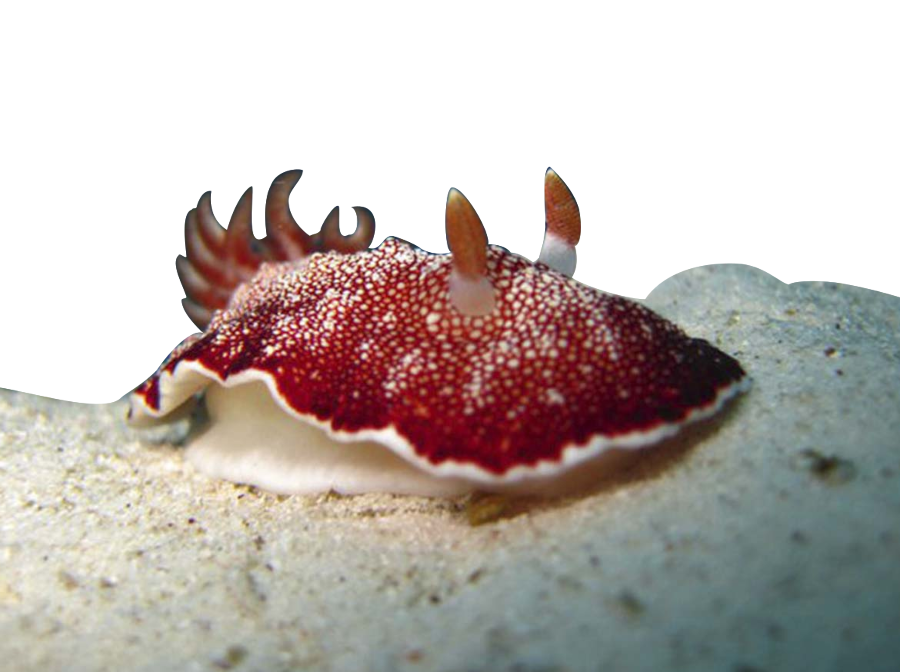
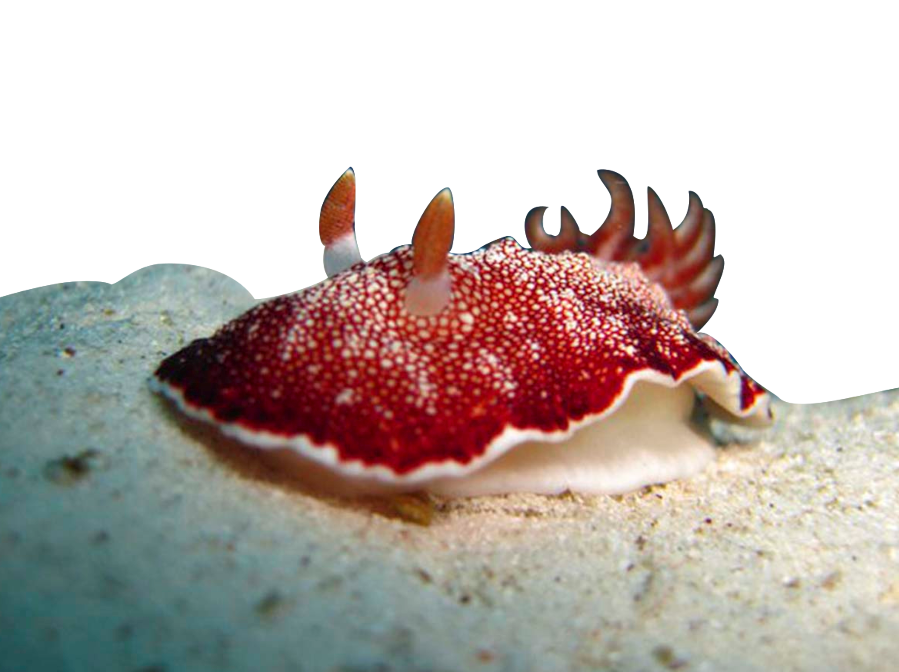
created a better theme selector

diff --git a/index.html b/index.html
@@ -41,6 +41,13 @@
         background: #ffffff99;
         display: flex;
         justify-content: space-between;
+        align-items: center;
+    }
+    .themeSection{
+        display:flex;
+        place-items: center;
+        place-content: center;
+        gap: 1rem;
     }
     menu > div{
         flex-grow: 1;
@@ -75,49 +82,101 @@
     }
     /* Custom Theme Colours */
     .theme1{
-        --lightCol:#011f2b;
-        --lightHighlight:#04fbe7;
-        --darkCol:#04fbe7;
-        --darkHighlight:#f48840;
+        --theme1-lightCol:#011f2b;
+        --theme1-lightHighlight:#04fbe7;
+        --theme1-darkCol:#04fbe7;
+        --theme1-darkHighlight:#f48840;
+        --lightCol:var(--theme1-lightCol);
+        --lightHighlight:var(--theme1-lightHighlight);
+        --darkCol:var(--theme1-darkCol);
+        --darkHighlight:var(--theme1-darkHighlight);
+    }
+    body.light .theme1{
+        background: var(--theme1-lightHighlight);
+        border-color: var(--theme1-lightCol);
+    }
+    body.dark .theme1{
+        background: var(--theme1-darkHighlight);
+        border-color: var(--theme1-darkCol);
     }
     .theme2{
-        --lightCol:#66081d;
-        --lightHighlight:#985dbb;
-        --darkCol:#c66ae7;
-        --darkHighlight:#fa4c07;
+        --theme2-lightCol:#66081d;
+        --theme2-lightHighlight:#985dbb;
+        --theme2-darkCol:#c66ae7;
+        --theme2-darkHighlight:#fa4c07;
+        --lightCol:var(--theme2-lightCol);
+        --lightHighlight:var(--theme2-lightHighlight);
+        --darkCol:var(--theme2-darkCol);
+        --darkHighlight:var(--theme2-darkHighlight);
+    }
+    body.light .theme2{
+        background: var(--theme2-lightHighlight);
+        border-color: var(--theme2-lightCol);
+    }
+    body.dark .theme2{
+        background: var(--theme2-darkHighlight);
+        border-color: var(--theme2-darkCol);
     }
     .theme3{
-        --lightCol:#850a14;
-        --lightHighlight:#2c0810;
-        --darkCol:#fde6db;
-        --darkHighlight:#6f030c;
+        --theme3-lightCol:#850a14;
+        --theme3-lightHighlight:#2c0810;
+        --theme3-darkCol:#fde6db;
+        --theme3-darkHighlight:#6f030c;
+        --lightCol:var(--theme3-lightCol);
+        --lightHighlight:var(--theme3-lightHighlight);
+        --darkCol:var(--theme3-darkCol);
+        --darkHighlight:var(--theme3-darkHighlight);
+    }
+    body.light .theme3{
+        background: var(--theme3-lightHighlight);
+        border-color: var(--theme3-lightCol);
+    }
+    body.dark .theme3{
+        background: var(--theme3-darkHighlight);
+        border-color: var(--theme3-darkCol);
     }
     .theme4{
-        --lightCol:#ffde00;
-        --lightHighlight:#14316b;
-        --darkCol:#adeff1;
-        --darkHighlight:#fcd31b;
+        --theme4-lightCol:#ffde00;
+        --theme4-lightHighlight:#14316b;
+        --theme4-darkCol:#adeff1;
+        --theme4-darkHighlight:#fcd31b;
+        --lightCol:var(--theme4-lightCol);
+        --lightHighlight:var(--theme4-lightHighlight);
+        --darkCol:var(--theme4-darkCol);
+        --darkHighlight:var(--theme4-darkHighlight);
+    }
+    body.light .theme4{
+        background: var(--theme4-lightHighlight);
+        border-color: var(--theme4-lightCol);
+    }
+    body.dark .theme4{
+        background: var(--theme4-darkHighlight);
+        border-color: var(--theme4-darkCol);
     }
     .theme5{
-        --lightCol:#f9cf01;
-        --lightHighlight:#0d0b17;
-        --darkCol:#f9cf01;
-        --darkHighlight:#1ddffe;
+        --theme5-lightCol:#f9cf01;
+        --theme5-lightHighlight:#0d0b17;
+        --theme5-darkCol:#f9cf01;
+        --theme5-darkHighlight:#1ddffe;
+        --lightCol:var(--theme5-lightCol);
+        --lightHighlight:var(--theme5-lightHighlight);
+        --darkCol:var(--theme5-darkCol);
+        --darkHighlight:var(--theme5-darkHighlight);
+    }
+    body.light .theme5{
+        background: var(--theme5-lightHighlight);
+        border-color: var(--theme5-lightCol);
+    }
+    body.dark .theme5{
+        background: var(--theme5-darkHighlight);
+        border-color: var(--theme5-darkCol);
     }
     .placeholder{
         height: 300px;
         width: 300px;
     }
-    #themeSelect{
-        border-radius: 10rem;
-        padding: 1rem;
-    }
-    #themeSelect > option{
-        appearance: none;
-        border-radius: 10rem;
-        padding: 1rem;
-    }
     #mode{
+        cursor: pointer;
         border-radius: 10rem;
         padding: 0rem;
         font-size: 2rem;
@@ -149,10 +208,9 @@
         border: 0px solid black;
         border-radius: 2rem;
         object-fit: cover;
-        transform: scaleX(-1);
     }
-    #welcomeImage > img.active{
-        display: block;
+    .active{
+        display: block !important;
     }
     #carousel{
         grid-column-start: 5;
@@ -176,9 +234,6 @@
         width: 800px;
         object-fit: cover;
         height: 450px;
-    }
-    #carousel #slider img.active{
-        display: block;
     }
     #aboutMe{
         grid-column-start: 5;
@@ -218,41 +273,86 @@
         gap: 1rem;
     }
     div.article{
-        background: palevioletred;
+        background: var(--highlight);
         display: flex;
         flex-direction: column;
         align-items: center;
+        color: #000;
+        border-radius: 1rem;
+        padding: 1rem;
+        width: 18rem;
     }
+    .disc{
+        height: 30px;
+        width: 30px;
+        background: red;
+        border: 10px solid blue;
+    }
+    .themeOuter{
+        display: inline-block;
+    }
+    .listContainer{
+        z-index: 10;
+        display: none;
+        position: relative;
+        /* padding-top: 1rem; */
+    }
+    .themeList{
+        display: grid;
+        grid-template-columns: 1fr 1fr;
+        gap: 1rem;
+        list-style-type: none;
+        margin-top: 0.5rem;
+        padding:0.5rem;
+        border-radius: 1rem;
+        position: absolute;
+    }
+    body.light .themeList{background: rgb(233, 233, 233);}
+    body.dark .themeList{background: rgb(70,70,70);}
+    .themeItem{
+        cursor: pointer;
+        border-radius: 2rem;
+        height: 2rem;
+        width: 2rem;
+        border: solid 1rem;
+    }
+    
 </style>
 <body class="a b c d">
     <menu>
-        <div>logo</div>
         <nav>
             <a href="">projects</a>
             <a href="">about me</a>
             <a href="">blog</a>
         </nav>
-        <div>
+        <div class="themeSection">
+            Contrast:
             <button id="mode" data-mode="light" onclick="changeMode()">🌓</button>
-            Theme
-            <select name="" id="themeSelect">
-                <option value="0">a</option>
-                <option value="1">b</option>
-                <option value="2">c</option>
-                <option value="3">d</option>
-                <option value="4">e</option>
-            </select>
+            Theme:
+            <!-- Change the below to a list of some kind -->
+            <div class="themeOuter">
+                <div id="themeSelect" class="themeItem"></div>
+                <div class="listContainer">
+                    <ul class="themeList">
+                        <li data-number="0"class="themeItem theme1"></li>
+                        <li data-number="1"class="themeItem theme2"></li>
+                        <li data-number="2"class="themeItem theme3"></li>
+                        <li data-number="3"class="themeItem theme4"></li>
+                        <li data-number="4"class="themeItem theme5"></li>
+                    </ul>
+                </div>
+            </div>
         </div>
     </menu>
-    <section>
+    <section style="min-height: 30%;">
         <h2>Welcome</h2>
         <div class="placeholder container">
             <div id="welcomeImage">
-                <img src="assets/Use/theme5-alpha-900px.png" class="active" alt="">
                 <img src="assets/Use/theme1-alpha-900px.png" class="active" alt="">
-                <img src="assets/Use/theme2-alpha-900px.png" class="active" alt="">
-                <img src="assets/Use/theme3-alpha-900px.png" class="active" alt="">
-                <img src="assets/Use/theme4-alpha.png" class="active" alt="">
+                <img src="assets/Use/theme2-alpha-900px.png" class="" alt="">
+                <img src="assets/Use/theme3-alpha-900px.png" class="" alt="">
+                <img src="assets/Use/theme4-alpha.png" class="" alt="">
+                <img src="assets/Use/theme5-alpha-900px.png" class="" alt="">
                 
             </div>
         </div>
@@ -296,9 +396,10 @@
                     <h3>Dynamic Text Updating</h3>
                     <p>This is a fake article on updating text</p>
                     <div style="width: 300px; height:300px; background: grey;"></div>
+                    <p>This is a short excerpt to explain what the article is about</p>
                 </div>
                 <div class="article">
-                    <button class="addArticle" click="alert('Feature unavailable')">Click here to add create a new article</button>
+                    <button class="addArticle" onclick="alert('Feature unavailable')">Click here to add create a new article</button>
                 </div>
             </div>
         </div>
@@ -318,11 +419,15 @@
         const body = document.querySelector("body");
         const mode = document.querySelector("#mode");
         const themeSelect = document.querySelector("#themeSelect");
+        const themeContainer = document.querySelector(".listContainer");
+        const themeButtons = document.querySelectorAll(".themeList > .themeItem");
         const light = "light";
         const dark = "dark";
+        const themeItem = "themeItem";
+        const active = "active";
         const theme = ["theme1","theme2","theme3","theme4","theme5"];
-        let modeState = [light, dark][1];
-        let currentTheme = theme[5];
+        let modeState = [light, dark][0];
+        let currentTheme = theme[0];
         
         // Functions
         function updateModeTheme(){
@@ -330,6 +435,8 @@
             body.className = "";
             body.classList.add(modeState);
             body.classList.add(currentTheme);
+            themeSelect.className = themeItem;
+            themeSelect.classList.add(currentTheme);
         }
         function changeMode(){
             if(modeState == light){
@@ -343,12 +450,20 @@
             currentTheme = theme[i];
             updateModeTheme();
         }
+        function showThemes(){
+            themeContainer.classList.toggle(active)
+        };
         
         // Events
-        themeSelect.addEventListener("change", e=>{
-            changeTheme(e.target.value)
+        themeSelect.addEventListener("click", e=>{
+            showThemes();
         })
-        
+        themeButtons.forEach(button => {
+            button.addEventListener("click", e=>{
+                changeTheme(e.target.dataset.number);
+                showThemes();
+            })
+        })
         // Initial function
         updateModeTheme();
    }
